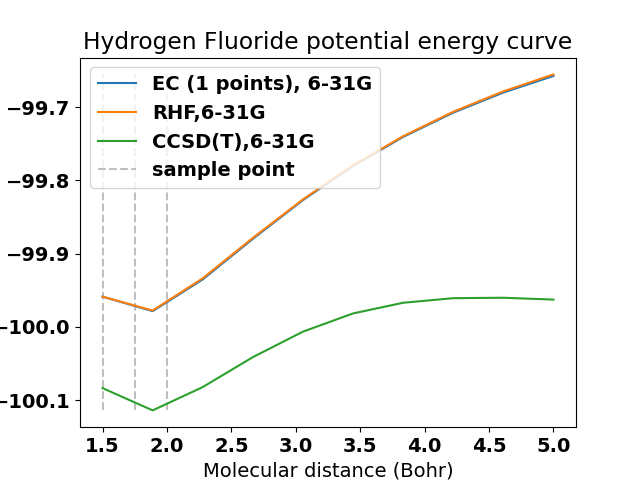
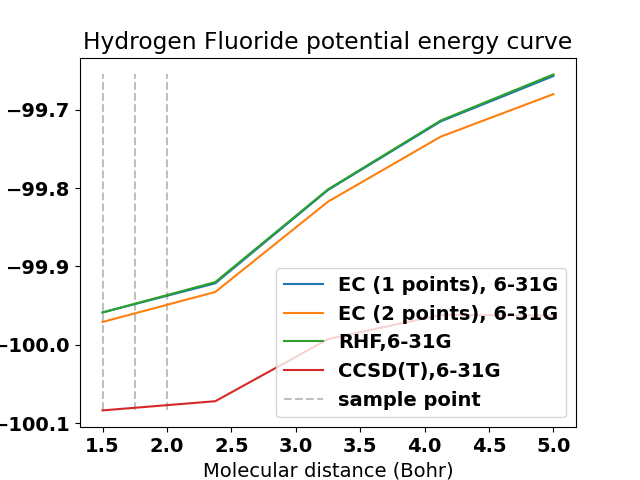
workerino

diff --git a/coding/eigenvectorcontinuation_molecule/eigenvectorcontinuation.py b/coding/eigenvectorcontinuation_molecule/eigenvectorcontinuation.py
@@ -4,7 +4,7 @@ from numba import jit
 import numba as nb
 import scipy
 from scipy.linalg import lu, qr,svd
-"""
+
 def parity(permutation):
     permutation = list(permutation)
     length = len(permutation)
@@ -22,13 +22,21 @@ def parity(permutation):
         return 1
     else:
         return -1
-"""
-def swap_cols(arr, frm, to): #Swap columns of a matrix
+
+def swap_cols(arr, frm, to):
+    """Swaps the columns of a 2D-array"""
     arrny=arr.copy()
     arrny[:,[frm, to]] = arrny[:,[to, frm]]
     return arrny
-
-def LDU_decomp(X,threshold=1e-10): #Svd based LDU decomp
+def LDU_decomp(X):
+    """Singular-Value-based LDU decomposition.
+    Input:
+        -The matrix X to decompose
+    Returns:
+        - (L.T): 2D array of the left matrix
+        - d : 1D diagonal matrix
+        - R.T: 2D array of the right matrix
+        """
     U,s,Vh=svd(X)
     detU=np.linalg.det(U)
     detVh=np.linalg.det(Vh)
@@ -39,36 +47,34 @@ def LDU_decomp(X,threshold=1e-10): #Svd based LDU decomp
         Vh[0,:]=-1*Vh[0,:]
         s[0]=-s[0]
     return U,s,Vh
-
 def generalized_eigenvector(T,S,symmetric=True):
     """Solves the generalized eigenvector problem.
-
     Input:
     T: The symmetric matrix
     S: The overlap matrix
     symmetric: Wether the matrices T, S are symmetric
-
-    Returns: The lowest eigenvalue & eigenvector"""
-    s, U=np.linalg.eigh(S)
+    Returns: The lowest eigenvalue & eigenvector
     """
-    s=np.diag(s)
-    X=U@np.linalg.inv(np.sqrt(s))
-    """
+    ###The purpose of this procedure here is to remove all very small eigenvalues of the overlap matrix for stability
+    s, U=np.linalg.eigh(S) #Diagonalize S (overlap matrix, Hermitian by definition)
     U=np.fliplr(U)
-    s=s[::-1]
-    s=s[s>1e-12]
-    s=s**(-0.5)
-    snew=np.zeros((len(U),len(s)))
-    sold=np.diag(s)
+    s=s[::-1] #Order from largest to lowest; S is an overlap matrix, hence we won't
+    s=s[s>1e-12] #Keep only largest eigenvalues
+    spowerminushalf=s**(-0.5) #Take s
+    snew=np.zeros((len(U),len(spowerminushalf)))
+    sold=np.diag(spowerminushalf)
     snew[:len(s),:]=sold
     s=snew
+
+
+    ###Canonical orthogonalization
     X=U@s
     Tstrek=X.T@T@X
     if symmetric:
         epsilon, Cstrek = np.linalg.eigh(Tstrek)
     else:
         epsilon, Cstrek = np.linalg.eig(Tstrek)
-    idx = epsilon.argsort()[::1]
+    idx = epsilon.argsort()[::1] #Order by size (non-absolute)
     epsilon = epsilon[idx]
     Cstrek = Cstrek[:,idx]
     C=X@Cstrek
@@ -76,7 +82,13 @@ def generalized_eigenvector(T,S,symmetric=True):
     lowest_eigenvector=C[:,0]
     return lowest_eigenvalue,lowest_eigenvector
 def cofactor_index(X):
-    #Find first nonzero cofactor
+    """
+    Returns the index of the first nonzero cofactor of a matrix X.
+    Input:
+        The matrix X (which is assumed to have nullity 0 or lower)
+    Returns:
+        The first index encountered in an element-wise search with a non-zero cofactor.
+    """
     C = np.zeros(X.shape)
     nrows, ncols = C.shape
     rows_val=np.arange(X.shape[0])
@@ -90,18 +102,27 @@ def cofactor_index(X):
             if np.abs(C)>1e-10:
                 return row,col
     return 0,0
+def first_order_adj_matrix_LdR(L,d,R):
+    determinant=np.prod(d)
+    return R@np.diag(d**(-1))@L*determinant
 def first_order_adj_matrix(X,detX=None):
-    #Compute the first order adjajency matrix
+    """Compute the first order adjajency matrix of an invertible matrix"""
     if detX is None:
-        detX=np.linalg.det(X) #Do something
-    return detX*linalg.inv(X)
+        detX=np.linalg.det(X)
+    try:
+        adj_matrix=detX*linalg.inv(X)
+    except np.linalg.LinAlgError:
+        raise np.linalg.LinAlgError("Cannot calculate first order adjajency matrix as input is non-invertible.")
+    return adj_matrix
 def first_order_adj_matrix_blockdiag(XL,XR,detX=None):
     """Compute the first order adjajency matrix of a two-block matrix, where XL and XR are the left/right matrix, respectively"""
     if detX is None:
         detX=np.linalg.det(XL)*np.linalg.det(XR)
-    if detX==0: #Do something
-        pass
-    return detX*linalg.inv(XL),detX*linalg.inv(XR)
+    try:
+        adj_matrix_left,adj_matrix_right=detX*linalg.inv(XL),detX*linalg.inv(XR)
+    except np.linalg.LinAlgError:
+        raise np.linalg.LinAlgError("Cannot calculate first order adjajency matrix as input is non-invertible.")
+    return adj_matrix_left,adj_matrix_right
 @jit(nopython=True)
 def second_order_compound_row(X,j,i):
     """Returns only the row with index(ij) of the second order compound of a matrix X"""
@@ -120,8 +141,6 @@ def second_order_compound_col(X,l,k):
         for i in range(j):
             M[int((j)*(j-1)/2+i)]=X[i,k]*X[j,l]-X[i,l]*X[j,k]
     return M
-
-
 @jit(nopython=True)
 def second_order_compound(X):
     """Compute the second order compound matrix of a matrix X"""
@@ -132,7 +151,6 @@ def second_order_compound(X):
             for l in range(n):
                 for k in range(l):
                     M[int((j)*(j-1)/2+i),int((l)*(l-1)/2+k)]=X[i,k]*X[j,l]-X[i,l]*X[j,k]
-    return M
 @jit(nopython=True)
 def second_order_compound_blockdiag(XL,XR): #XLeft, XRight
     """Compute the second order compound matrix of a block-diagonal matrix """
@@ -204,10 +222,11 @@ def second_order_compound_blockdiag_separated_RHF(X): #XLeft, XRight
                 for k in range(0,nh):
                     M2[int(j*nh+i),int(l*nh+k)]=X[i,k]*X[j,l]
     return M1,M2
-#@jit(nopython=True)
 def second_order_adj_matrix_blockdiag(XL,XR,detX=None):
     if detX is None:
         detX=np.linalg.det(XL)*np.linalg.det(XR)
+    if np.abs(detX)<1e-10:
+        raise np.linalg.LinAlgError("Cannot calculate second order adjajency matrix as determinant is zero (Breakdown of Jacobi's theorem).")
     first_order=first_order_adj_matrix_blockdiag(XL,XR,detX)
     compund = second_order_compound_blockdiag(first_order[0],first_order[1])
     return 1/detX*compund
@@ -222,9 +241,12 @@ def second_order_adj_matrix_blockdiag_separated_RHF(X,detX=None):
 def second_order_adj_matrix_blockdiag_separated(XL,XR,detX=None):
     if detX is None:
         detX=np.linalg.det(XL)*np.linalg.det(XR)
+    if np.abs(detX)<1e-14:
+        raise np.linalg.LinAlgError("Cannot calculate second order adjajency matrix as determinant is zero (Breakdown of Jacobi's theorem).")
+    det_inv=1/detX
     first_order=first_order_adj_matrix_blockdiag(XL,XR,detX)
     M1,M2,M3 = second_order_compound_blockdiag_separated(first_order[0],first_order[1])
-    return 1/detX*M1, 1/detX*M2,1/detX*M3
+    return det_inv*M1, det_inv*M2,det_inv*M3
 def second_order_adj_matrix(X,detX=None):
     if detX is None:
         detX=np.linalg.det(X)
@@ -360,10 +382,9 @@ def get_antisymm_element_full(MO_eriaaaa,Moeribbbb,Moeriaabb,Moeribbaa,n,na=None
                             gright=Moeribbbb[i-na,l-na,j-na,k-na]
                     G_mat[int((j)*(j-1)/2+i),int((l)*(l-1)/2+k)]=gleft-gright
     return G_mat
-'''
 def LDU_decomp_new(X,threshold=1e-10):
     P,L,U=lu(X,check_finite=False)
-    #P.T @ X = L U
+    #P.T @ X = L U
     L=P@L
     #X=L' U
     d=np.diag(U) #Diagonal matrix
@@ -449,4 +470,3 @@ def second_order_compound_col_separated(XL,XR,l,k):
             for i in range(0,na):
                 M2[int(j*na+i)]=XL[i,k]*XR[j,l]
     return M1, M2, M3
-'''

diff --git a/coding/eigenvectorcontinuation_molecule/ec_HF_basischange.py b/coding/eigenvectorcontinuation_molecule/ec_HF_basischange.py
@@ -299,8 +299,8 @@ class eigvecsolver_RHF_singles(eigvecsolver_RHF):
     def twobody_energy(self,determinant_matrix,eribasis,permutations_left,permutations_right):
         #return self.twobody_energy_alt(determinant_matrix,eribasis,permutations_left,permutations_right)
         threshold=1e-14
-        Linv_a,da,Rinv_a=LDU_decomp(determinant_matrix[0],threshold=threshold) #Alpha LdR decomposition
-        Linv_b,db,Rinv_b=LDU_decomp(determinant_matrix[1],threshold=threshold) #Beta LdR decomposition
+        Linv_a,da,Rinv_a=LDU_decomp(determinant_matrix[0])#,threshold=threshold) #Alpha LdR decomposition
+        Linv_b,db,Rinv_b=LDU_decomp(determinant_matrix[1])#,threshold=threshold) #Beta LdR decomposition
         neh=self.number_electronshalf
         num_singularities_left=len(da[np.abs(da)<threshold])
         num_singularities_right=len(db[np.abs(db)<threshold])

diff --git a/coding/eigenvectorcontinuation_molecule/HF_firstexcited.py b/coding/eigenvectorcontinuation_molecule/HF_firstexcited.py
@@ -10,7 +10,7 @@ from ec_HF_basischange import *
 
 basis="6-31G"
 sample_x=np.linspace(1.5,2.0,3)
-xc_array=np.linspace(1.5,5.0,10)
+xc_array=np.linspace(1.5,5.0,5)
 molecule=lambda x: """H 0 0 0; F 0 0 %f"""%x
 molecule_name=r"Hydrogen Fluoride"
 '''
@@ -22,7 +22,7 @@ molecule=lambda x: """Be 0 0 0; H %f %f 0; H %f %f 0"""%(x,2.54-0.46*x,x,-(2.54-
 ax,fig=plt.subplots(figsize=(10,10))
 '''
 energiesCC=CC_energy_curve(xc_array,basis,molecule=molecule)
-for i in range(1,2):
+for i in range(1,3):
     print("Eigvec (%d)"%(i))
     HF=eigvecsolver_RHF_singles(sample_x[:i],basis,molecule=molecule)
     energiesEC,eigenvectors=HF.calculate_energies(xc_array)
